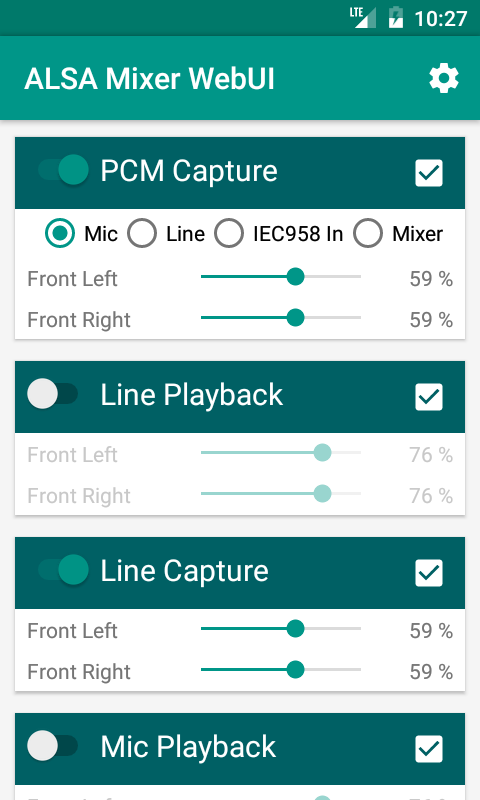
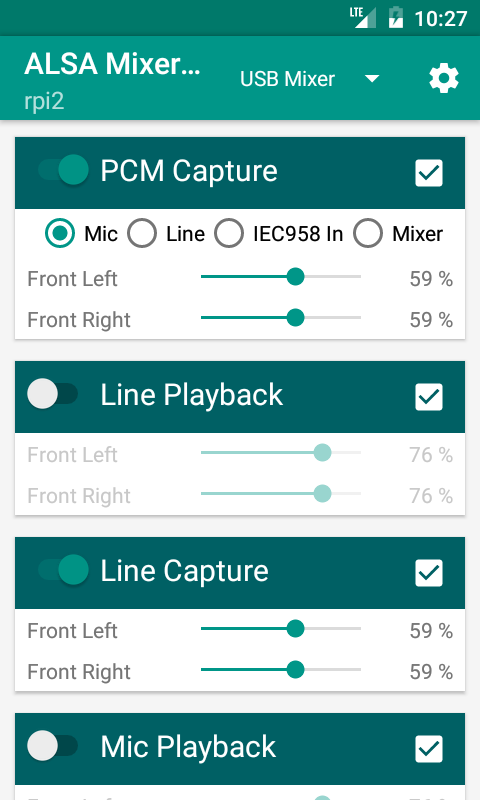
Added support for multiple sound cards.

Changed region(s): [[0.0312, 0.0625, 0.6875, 0.1562], [0.75, 0.0938, 0.7812, 0.125]]

diff --git a/app/src/main/java/cz/jiriskorpil/amixerwebui/activity/DataHandler.java b/app/src/main/java/cz/jiriskorpil/amixerwebui/activity/DataHandler.java
@@ -4,15 +4,23 @@ import android.content.Context;
 import android.content.SharedPreferences;
 import android.content.res.Configuration;
 import android.preference.PreferenceManager;
+import android.support.v4.view.MenuItemCompat;
 import android.support.v4.widget.SwipeRefreshLayout;
 import android.support.v7.widget.GridLayoutManager;
 import android.support.v7.widget.RecyclerView;
 import android.util.Log;
+import android.view.MenuItem;
+import android.view.View;
+import android.widget.AdapterView;
+import android.widget.ArrayAdapter;
+import android.widget.Spinner;
 
 import org.json.JSONArray;
 import org.json.JSONException;
+import org.json.JSONObject;
 
 import java.util.ArrayList;
+import java.util.Iterator;
 import java.util.List;
 
 import cz.jiriskorpil.amixerwebui.R;
@@ -23,7 +31,11 @@ import cz.jiriskorpil.amixerwebui.control.ControlContainerType;
 import cz.jiriskorpil.amixerwebui.control.ControlFactory;
 import cz.jiriskorpil.amixerwebui.control.mixer.MixerControl;
 import cz.jiriskorpil.amixerwebui.task.AsyncHttpRequestTask;
+import cz.jiriskorpil.amixerwebui.task.ChangeCardHttpRequestTask;
+import cz.jiriskorpil.amixerwebui.task.RetrieveCardHttpRequestTask;
+import cz.jiriskorpil.amixerwebui.task.RetrieveCardsHttpRequestTask;
 import cz.jiriskorpil.amixerwebui.task.RetrieveControlsHttpRequestTask;
+import cz.jiriskorpil.amixerwebui.task.RetrieveHostnameHttpRequestTask;
 
 /**
  * Class which supplies (main) activity with data.
@@ -37,6 +49,10 @@ public class DataHandler
 	private RecyclerView listView;
 	private SwipeRefreshLayout swipeRefreshLayout;
 	private List<ControlContainer> controls;
+
+	private boolean downloadEnabled = true;
+	private String lastUrl = "";
+	private String cardId = "";
 
 	/**
 	 * @param context            The context to use. Usually {@link android.app.Activity} object.
@@ -68,6 +84,9 @@ public class DataHandler
 	 */
 	public DataHandler download()
 	{
+		if (!downloadEnabled) return this;
+		downloadEnabled = false;
+
 		swipeRefreshLayout.post(new Runnable()
 		{
 			@Override
@@ -80,15 +99,96 @@ public class DataHandler
 					public void onFinish(String result)
 					{
 						try {
+							downloadEnabled = true;
+							lastUrl = getBaseUrl();
 							displayData(result.equals("") ? null : new JSONArray(result));
 						} catch (JSONException e) {
 							Log.e("JSONException", "Error: " + e.toString());
 						}
 					}
 				}).execute();
+
+				if (!lastUrl.equals(getBaseUrl())) {
+					cardId = "";
+					setupSoundCards();
+				}
 			}
 		});
 		return this;
+	}
+
+	private void setupSoundCards()
+	{
+		final MainActivity activity = (MainActivity) context;
+		activity.getSupportActionBar().setSubtitle("");
+
+		new RetrieveHostnameHttpRequestTask(context, getBaseUrl(), new AsyncHttpRequestTask.OnFinishListener() {
+			@Override
+			public void onFinish(String result) {
+				activity.getSupportActionBar().setSubtitle(result);
+			}
+		}).execute();
+
+		final MenuItem soundCard = activity.menu.findItem(R.id.action_card);
+		soundCard.setVisible(false);
+		new RetrieveCardsHttpRequestTask(context, getBaseUrl(), new AsyncHttpRequestTask.OnFinishListener() {
+			@Override
+			public void onFinish(String result) {
+				try {
+					JSONObject cards = (JSONObject) (new JSONArray("[" + result + "]")).get(0);
+
+					if (cards.length() > 1) {
+						soundCard.setVisible(true);
+
+						final List<String> cardIds = new ArrayList<>();
+						List<String> cardNames = new ArrayList<>();
+
+						Iterator<String> iter = cards.keys();
+						while (iter.hasNext()) {
+							String id = iter.next();
+							cardNames.add((String) cards.get(id));
+							cardIds.add(id);
+						}
+
+						final Spinner spinner = (Spinner) MenuItemCompat.getActionView(soundCard);
+						ArrayAdapter<String> adapter = new ArrayAdapter<>(context, R.layout.spinner_item, cardNames);
+						adapter.setDropDownViewResource(R.layout.spinner_dropdown_item);
+						spinner.setAdapter(adapter);
+
+						spinner.setOnItemSelectedListener(new AdapterView.OnItemSelectedListener() {
+							@Override
+							public void onItemSelected(AdapterView<?> adapterView, View view, final int i, long l) {
+								if (cardId.equals(cardIds.get(i)) || cardId.equals("")) {
+									return;
+								}
+
+								(new ChangeCardHttpRequestTask(context, getBaseUrl(), new AsyncHttpRequestTask.OnFinishListener() {
+									@Override
+									public void onFinish(String result) {
+										download();
+									}
+								})).execute(cardIds.get(i));
+								cardId = cardIds.get(i);
+							}
+
+							@Override
+							public void onNothingSelected(AdapterView<?> adapterView) {
+							}
+						});
+
+						new RetrieveCardHttpRequestTask(context, getBaseUrl(), new AsyncHttpRequestTask.OnFinishListener() {
+							@Override
+							public void onFinish(String result) {
+								cardId = result;
+								spinner.setSelection(cardIds.indexOf(result), false);
+							}
+						}).execute();
+					}
+				} catch (JSONException e) {
+					Log.e("JSONException", "Error: " + e.toString());
+				}
+			}
+		}).execute();
 	}
 
 	public DataHandler setOnFailListener(OnFailListener listener)
@@ -109,6 +209,8 @@ public class DataHandler
 		if (jsonArray == null) {
 			if (mOnFailListener != null) {
 				mOnFailListener.onFail();
+				lastUrl = "";
+				cardId = "";
 			}
 		} else {
 			controls = parseControls(jsonArray);

diff --git a/app/src/main/java/cz/jiriskorpil/amixerwebui/task/ChangeCardHttpRequestTask.java b/app/src/main/java/cz/jiriskorpil/amixerwebui/task/ChangeCardHttpRequestTask.java
@@ -1,0 +1,32 @@
+package cz.jiriskorpil.amixerwebui.task;
+
+import android.content.Context;
+
+/**
+ * Asynchronous task for sending request to change sound card.
+ */
+public class ChangeCardHttpRequestTask extends AsyncHttpRequestTask
+{
+	public ChangeCardHttpRequestTask(Context context, String url)
+	{
+		super(context, url);
+	}
+
+	public ChangeCardHttpRequestTask(Context context, String url, OnFinishListener listener)
+	{
+		this(context, url);
+		this.mOnFinishListener = listener;
+	}
+
+	/**
+	 * {@inheritDoc}
+	 * Sends request to change card.
+	 *
+	 * @param params first parameter is card id,
+	 */
+	@Override
+	protected String doInBackground(String... params)
+	{
+		return downloadFromURL("/card/" + params[0] + "/", "PUT");
+	}
+}

diff --git a/app/src/main/java/cz/jiriskorpil/amixerwebui/task/RetrieveCardsHttpRequestTask.java b/app/src/main/java/cz/jiriskorpil/amixerwebui/task/RetrieveCardsHttpRequestTask.java
@@ -1,0 +1,30 @@
+package cz.jiriskorpil.amixerwebui.task;
+
+import android.content.Context;
+
+/**
+ * Asynchronous task for retrieving available sound cards from server.
+ */
+public class RetrieveCardsHttpRequestTask extends AsyncHttpRequestTask
+{
+	public RetrieveCardsHttpRequestTask(Context context, String url)
+	{
+		super(context, url);
+	}
+
+	public RetrieveCardsHttpRequestTask(Context context, String url, OnFinishListener listener)
+	{
+		this(context, url);
+		this.mOnFinishListener = listener;
+	}
+
+	/**
+	 * {@inheritDoc}
+	 * Retrieves available sound cards from server.
+	 */
+	@Override
+	protected String doInBackground(String... params)
+	{
+		return downloadFromURL("/cards/");
+	}
+}

diff --git a/app/src/main/java/cz/jiriskorpil/amixerwebui/task/RetrieveHostnameHttpRequestTask.java b/app/src/main/java/cz/jiriskorpil/amixerwebui/task/RetrieveHostnameHttpRequestTask.java
@@ -1,0 +1,30 @@
+package cz.jiriskorpil.amixerwebui.task;
+
+import android.content.Context;
+
+/**
+ * Asynchronous task for retrieving server's hostname.
+ */
+public class RetrieveHostnameHttpRequestTask extends AsyncHttpRequestTask
+{
+	public RetrieveHostnameHttpRequestTask(Context context, String url)
+	{
+		super(context, url);
+	}
+
+	public RetrieveHostnameHttpRequestTask(Context context, String url, OnFinishListener listener)
+	{
+		this(context, url);
+		this.mOnFinishListener = listener;
+	}
+
+	/**
+	 * {@inheritDoc}
+	 * Retrieves server's hostname.
+	 */
+	@Override
+	protected String doInBackground(String... params)
+	{
+		return downloadFromURL("/hostname/");
+	}
+}

diff --git a/app/src/main/java/cz/jiriskorpil/amixerwebui/task/RetrieveCardHttpRequestTask.java b/app/src/main/java/cz/jiriskorpil/amixerwebui/task/RetrieveCardHttpRequestTask.java
@@ -1,0 +1,25 @@
+package cz.jiriskorpil.amixerwebui.task;
+
+import android.content.Context;
+
+/**
+ * Asynchronous task for retrieving active sound card from server.
+ */
+public class RetrieveCardHttpRequestTask extends AsyncHttpRequestTask
+{
+	public RetrieveCardHttpRequestTask(Context context, String url, OnFinishListener listener)
+	{
+		super(context, url);
+		this.mOnFinishListener = listener;
+	}
+
+	/**
+	 * {@inheritDoc}
+	 * Retrieves active sound card from server.
+	 */
+	@Override
+	protected String doInBackground(String... params)
+	{
+		return downloadFromURL("/card/");
+	}
+}

diff --git a/app/src/main/java/cz/jiriskorpil/amixerwebui/activity/MainActivity.java b/app/src/main/java/cz/jiriskorpil/amixerwebui/activity/MainActivity.java
@@ -23,6 +23,7 @@ public class MainActivity extends AppCompatActivity
 {
 	private DataHandler dataHandler;
 	private String lastUrl;
+	protected Menu menu;
 
 	@Override
 	protected void onCreate(Bundle savedInstanceState)
@@ -97,6 +98,7 @@ public class MainActivity extends AppCompatActivity
 	@Override
 	public boolean onCreateOptionsMenu(Menu menu)
 	{
+		this.menu = menu;
 		getMenuInflater().inflate(R.menu.menu_main, menu);
 		return true;
 	}
